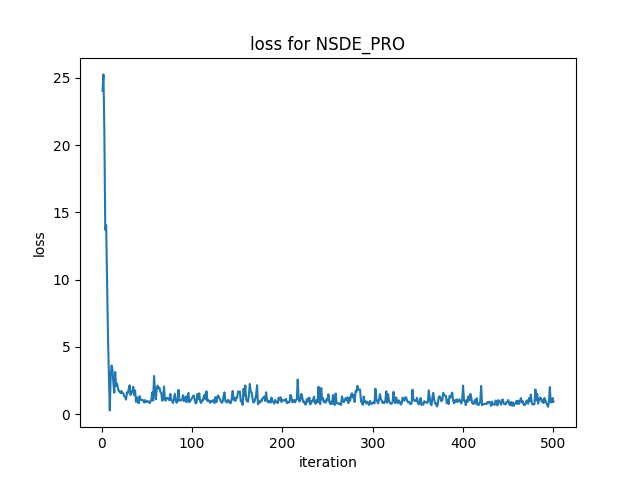
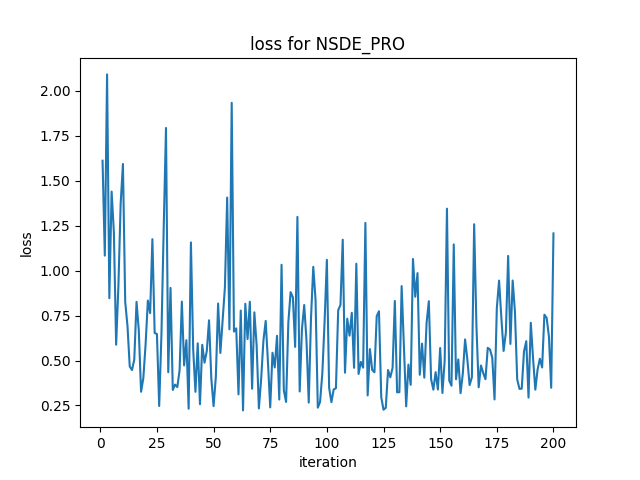
增加了对nsde pro的初始化过程

diff --git a/experiment1.py b/experiment1.py
@@ -29,8 +29,8 @@ def train_models(model,target,n_steps,option_info,indices,MC_samples,seedused=1)
     torch.manual_seed(seedused)
     np.random.seed(seedused)
     optimizer = torch.optim.Adam(model.parameters(),lr=0.001, eps=1e-08,amsgrad=False,betas=(0.9, 0.999), weight_decay=0 )
-  # optimizer= torch.optim.Rprop(model.parameters(), lr=0.001, etas=(0.5, 1.2), step_sizes=(1e-07, 1))
-    n_epochs = 100
+   #optimizer= torch.optim.Rprop(model.parameters(), lr=0.001, etas=(0.5, 1.2), step_sizes=(1e-07, 1))
+    n_epochs = 40
     itercount = 0
     losses_val = [] # for recording the loss val each epoch
     losses = [] # for recording the loss each small batch
@@ -103,7 +103,7 @@ MC_samples = 5000
 strikes_put=np.arange(60, 101, 5).tolist()
 strikes_call=np.arange(100, 141, 5).tolist()
 S0 = torch.ones(1, 1)*100
-V0 = torch.ones(1,1)*0.04
+V0 = torch.ones(1,1)*0.034
 rate = torch.ones(1, 1)*0.032
 asset_info = [S0,V0,rate]
 
@@ -116,6 +116,7 @@ timegrid = torch.linspace(0,1,n_steps+1)
 # If using n_steps=48 those corresponds to monthly maturities:
 indices = torch.tensor([30,60,90,120,150,180,240,270,300,360])    
 target=torch.cat([OTM_call, ITM_call],0)
+
 
 model = Net_SDE(asset_info = asset_info, n_dim = 3,timegrid = timegrid,
                 n_layers= 2,vNetWidth = 20,device = device)
@@ -133,6 +134,11 @@ heston_info = [-0.7, 0.04, 1.5, 0.3]
 
 model_pro = Net_SDE_Pro(heston_info,asset_info,3,timegrid,
                         n_layers=2,vNetWidth = 20,device=device)
+
+#初始化weight
+for layer in model_pro.modules():
+    if isinstance(layer, torch.nn.Linear):
+        torch.nn.init.constant_(layer.weight, val=0.0)
 
 print("==="*10+"training the neural sde pro model"+"==="*10)
 model_pro,losses_pro, losses_val_pro = train_models(model_pro,target,n_steps,option_info ,indices,MC_samples)
@@ -180,13 +186,13 @@ print("The test loss for nsde pro:  ",nsde_pro_test_loss)
 
 ## save picture
 fig,ax = plt.subplots()
-ax.plot(np.arange(1,501),losses_val[0:500])
+ax.plot(np.arange(1,201),losses_val[0:200])
 ax.set(xlabel='iteration',ylabel='loss')
 ax.set_title('loss for NSDE')
 plt.savefig(picture_path+"ex1_NSDE_loss.png")
 
 fig,ax = plt.subplots()
-ax.plot(np.arange(1,501),losses_val_pro[0:500])
+ax.plot(np.arange(1,201),losses_val_pro[0:200])
 ax.set(xlabel='iteration',ylabel='loss')
 ax.set_title('loss for NSDE_PRO')
 plt.savefig(picture_path+"ex1_NSDE_PRO_loss.png")

diff --git a/experiment2.py b/experiment2.py
@@ -31,7 +31,7 @@ def train_models(model,target,n_steps,option_info,indices,MC_samples,seedused=1)
     torch.manual_seed(seedused)
     np.random.seed(seedused)
     optimizer = torch.optim.Adam(model.parameters(),lr=0.001, eps=1e-08,amsgrad=False,betas=(0.9, 0.999), weight_decay=0 )
-  # optimizer= torch.optim.Rprop(model.parameters(), lr=0.001, etas=(0.5, 1.2), step_sizes=(1e-07, 1))
+   #optimizer= torch.optim.Rprop(model.parameters(), lr=0.001, etas=(0.5, 1.2), step_sizes=(1e-07, 1))
     n_epochs = 100
     itercount = 0
     losses_val = [] # for recording the loss val each epoch
@@ -145,8 +145,13 @@ def fun(x,asset_input,y):
 
 
 x0 = np.array([-0.3, 0.03, 1.3, 0.3])
+
+"""
+#如果用了新的数据集请将这个注释删掉，调用下面的优化，同时删掉下面的赋值
 #res_lsq = least_squares(fun, x0, args=(asset_input, target.ravel().numpy()))
 #heston_info = res_lsq.x
+"""
+
 heston_info = [0.75,0.89,2.23,0.3]
 print( "*"*20,"The calibrated heston model params: \
         rho = {},theta = {}, kappa = {} and lambda = {}".format(heston_info[0],heston_info[1],\
@@ -155,6 +160,10 @@ print( "*"*20,"The calibrated heston model params: \
 
 model_pro = Net_SDE_Pro(heston_info,asset_info,3,timegrid,
                         n_layers=2,vNetWidth = 20,device=device)
+
+for layer in model_pro.modules():
+    if isinstance(layer, torch.nn.Linear):
+        torch.nn.init.constant_(layer.weight, val=0.0)
 
 print("==="*10+"training the neural sde pro model"+"==="*10)
 model_pro,losses_pro, losses_val_pro=train_models(model_pro,target,n_steps,option_info ,indices,MC_samples)

diff --git a/package/generate/generate_modified_heston.py b/package/generate/generate_modified_heston.py
@@ -123,9 +123,8 @@ if __name__ == "__main__":
     MC_samples=200000
     n_steps=360
     rho = -0.7
-    Z2=np.zeros((40,9))
-    strikes_put=np.arange(60, 101, 5).tolist()
-    strikes_call=np.arange(100, 141, 5).tolist()
+    strikes_put=np.arange(60, 101, 2.5).tolist()
+    strikes_call=np.arange(100, 141, 2.5).tolist()
     n_steps=360
     timegrid = torch.linspace(0,1,n_steps+1) 
     indices = torch.tensor([30,60,90,120,150,180,240,270,300,360])  
@@ -149,13 +148,14 @@ if __name__ == "__main__":
     Z=Z.detach().to(device='cpu').numpy()
     
     
+    
     ## saving
     Call_OTM_Unit=Z[0:10,:]
     Put_OTM_Unit=Z[10:20,:]
     Call_ITM_Unit=Z[20:30,:]
     Put_ITM_Unit=Z[30:40,:]
     
-    torch.save(Call_OTM_Unit,path+'/data/Call_OTM_modified_Heston_train.pt')
-    torch.save(Put_OTM_Unit,path+'/data/Put_OTM_modified_Heston_train.pt')
-    torch.save(Call_ITM_Unit,path+'/data/Call_ITM_modified_Heston_train.pt')
-    torch.save(Put_ITM_Unit,path+'/data/Put_ITM_modified_Heston_train.pt') 
+    torch.save(Call_OTM_Unit,path+'/data/Call_OTM_modified_Heston_test.pt')
+    torch.save(Put_OTM_Unit,path+'/data/Put_OTM_modified_Heston_test.pt')
+    torch.save(Call_ITM_Unit,path+'/data/Call_ITM_modified_Heston_test.pt')
+    torch.save(Put_ITM_Unit,path+'/data/Put_ITM_modified_Heston_test.pt') 

diff --git a/package/model/Net_SDE_Pro.py b/package/model/Net_SDE_Pro.py
@@ -68,9 +68,7 @@ class Net_SDE_Pro(nn.Module):
                 
                 Z_new=torch.Tensor()
                 countstrikecall=-1
-                if(torch.any(torch.isnan(S_old))):
-                    print(S_old)
-                    print(torch.sum(torch.isnan(S_old)))
+
                     
             # Evaluate call (OTM) option prices 
                 

diff --git a/experiment3.py b/experiment3.py
@@ -1,0 +1,11 @@
+import numpy as np
+import pandas as pd
+import torch
+import os
+import torch.nn as nn
+from scipy.optimize import least_squares
+import setenv
+from matplotlib import pyplot as plt
+from model import Net_SDE,Net_SDE_Pro
+from generate import heston
+
